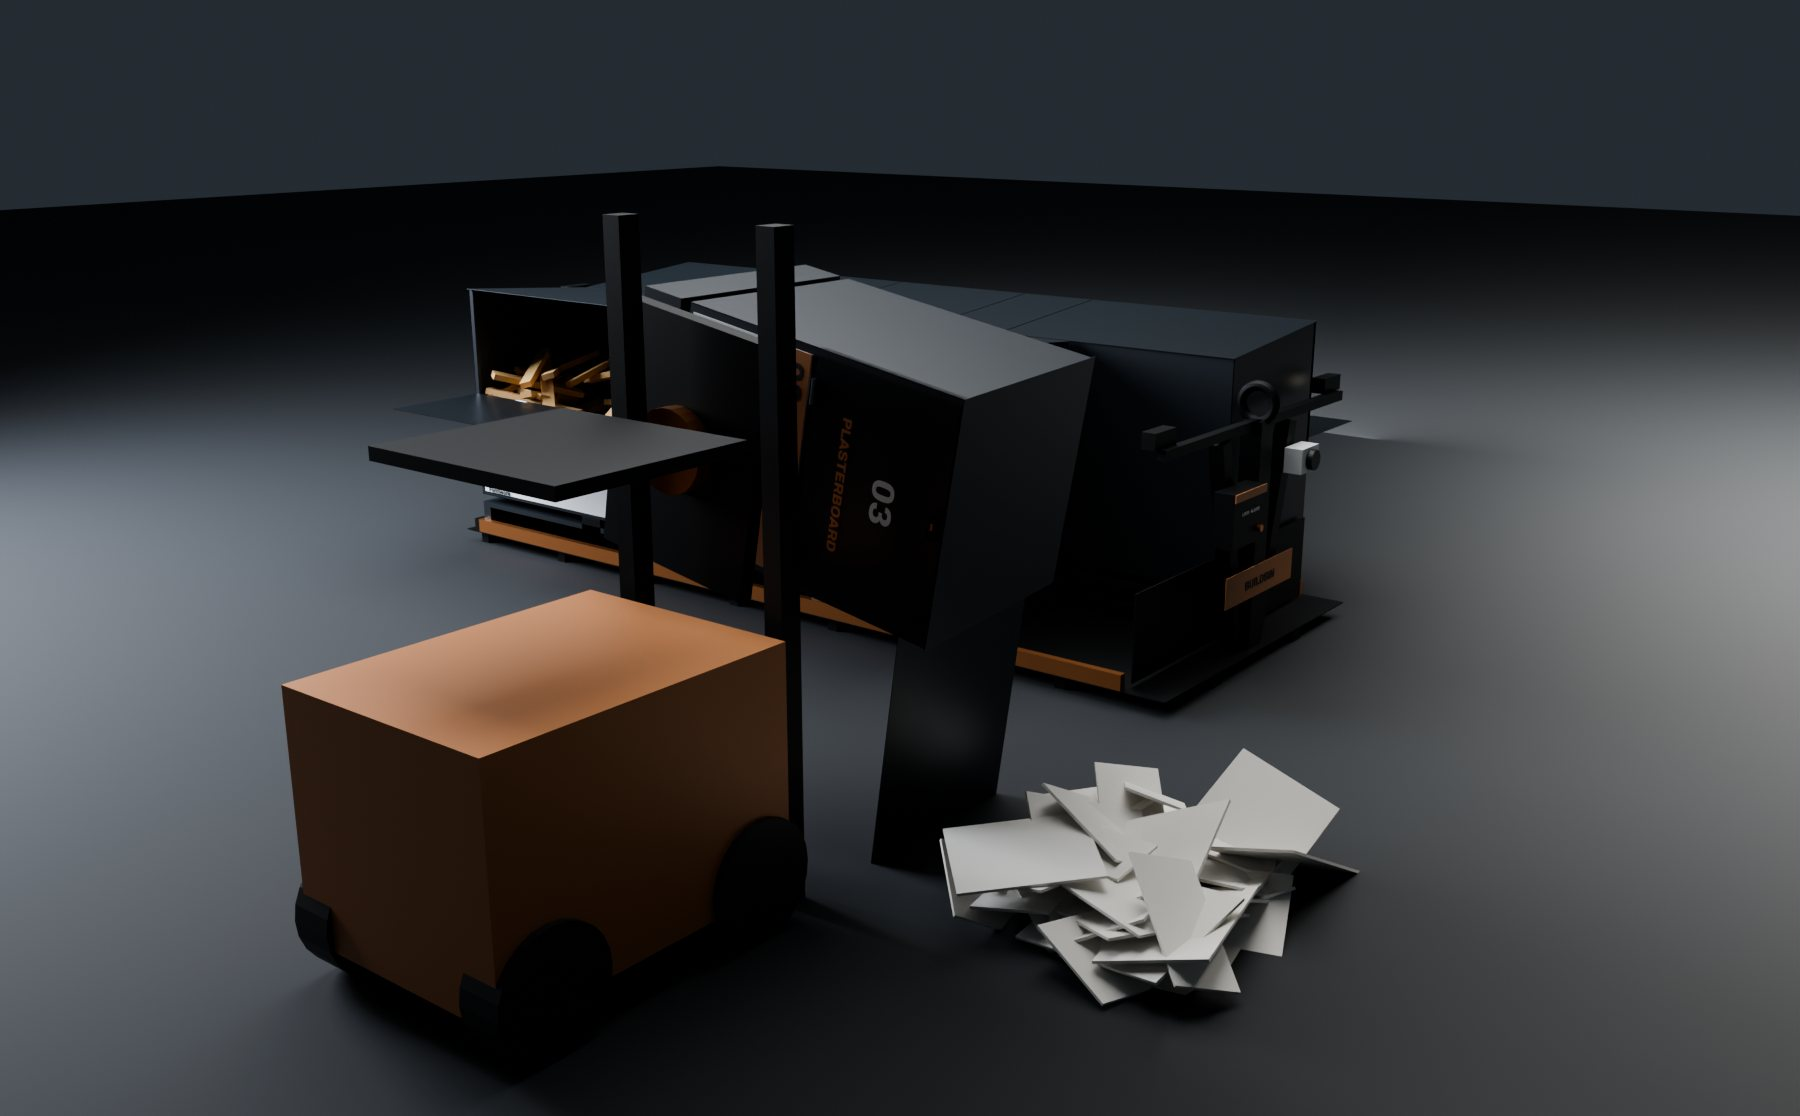
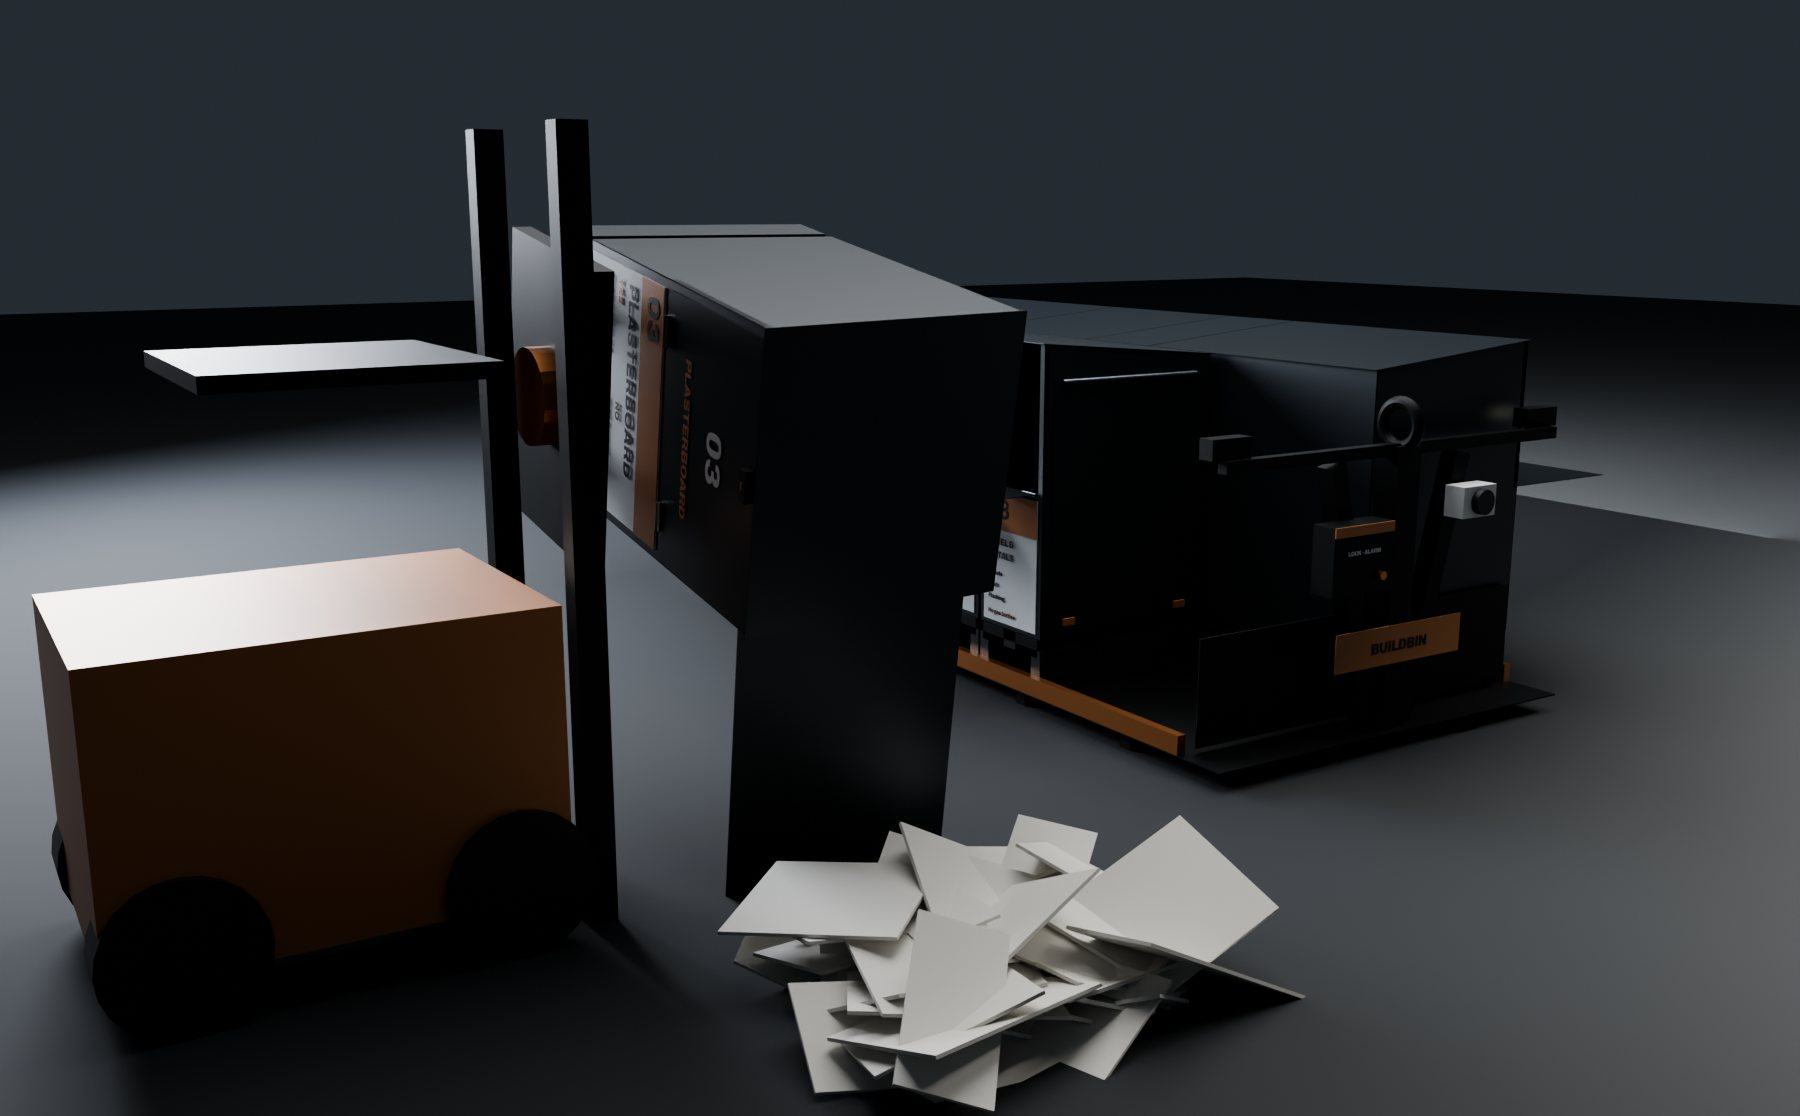
Rev B renders: hero, signage close-up, emptying, plan
Claude-Session: https://claude.ai/code/session_01EL3e6icLYskTuWHNAzk3js

diff --git a/source/model/build_bins.py b/source/model/build_bins.py
@@ -463,4 +463,4 @@ if RENDER == "tip":
         box("pile", (rng.uniform(0.3, 0.8), rng.uniform(0.3, 0.6), 0.013), (bx + 1.9 + rng.uniform(-0.5, 0.5), ym - 2.6 + rng.uniform(-0.55, 0.55), rng.uniform(0.01, 0.35) * (1 - p / 90)),
             M["plaster"], (rng.uniform(-0.5, 0.5), rng.uniform(-0.5, 0.5), rng.uniform(0, 3.1)))
     floor_plane(); lights()
-    setup_render("tip.png", (10.2, -0.9, 3.3), (math.radians(76), 0, math.radians(103)), lens=32)
+    setup_render("tip.png", (8.6, -6.4, 2.7), (math.radians(78), 0, math.radians(58)), lens=33)
